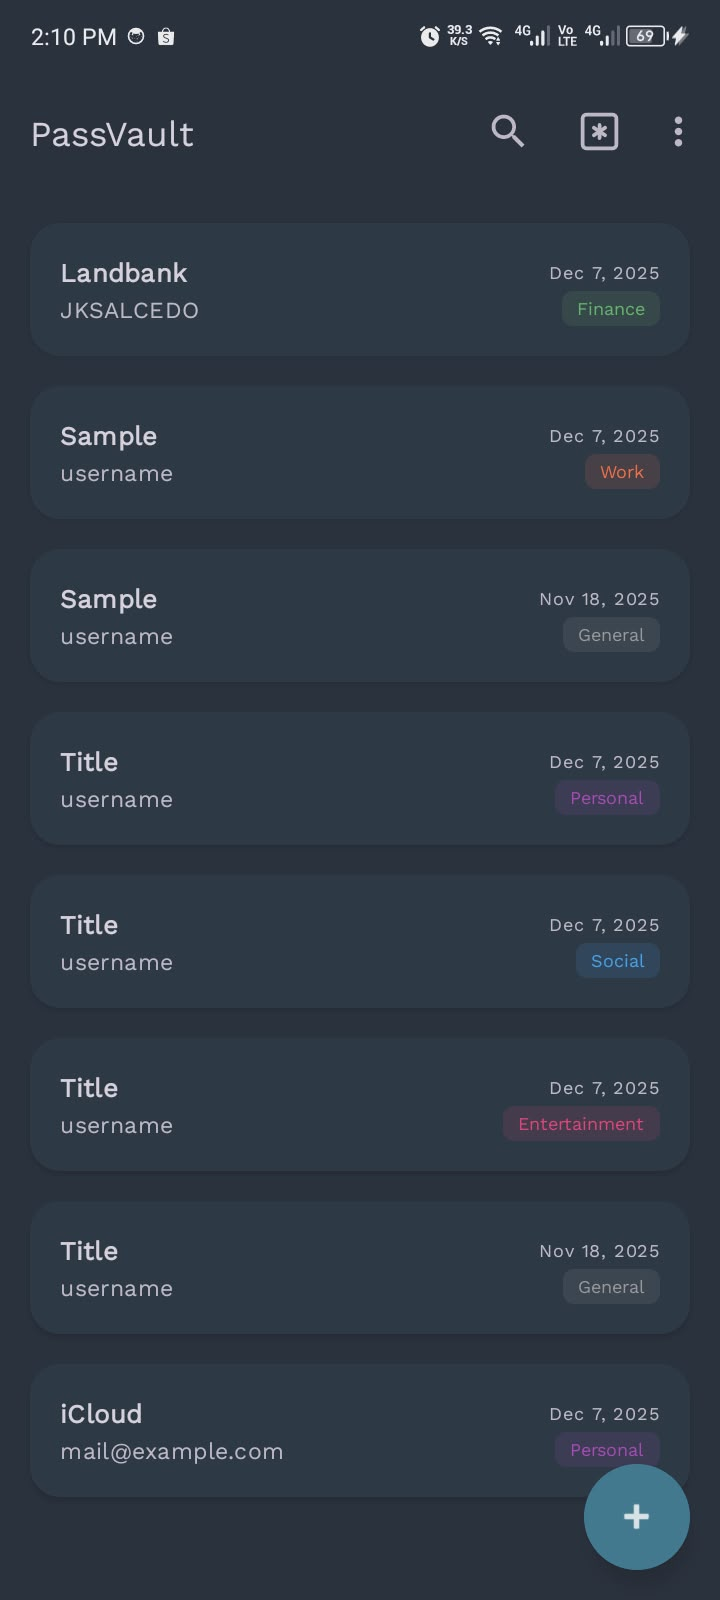
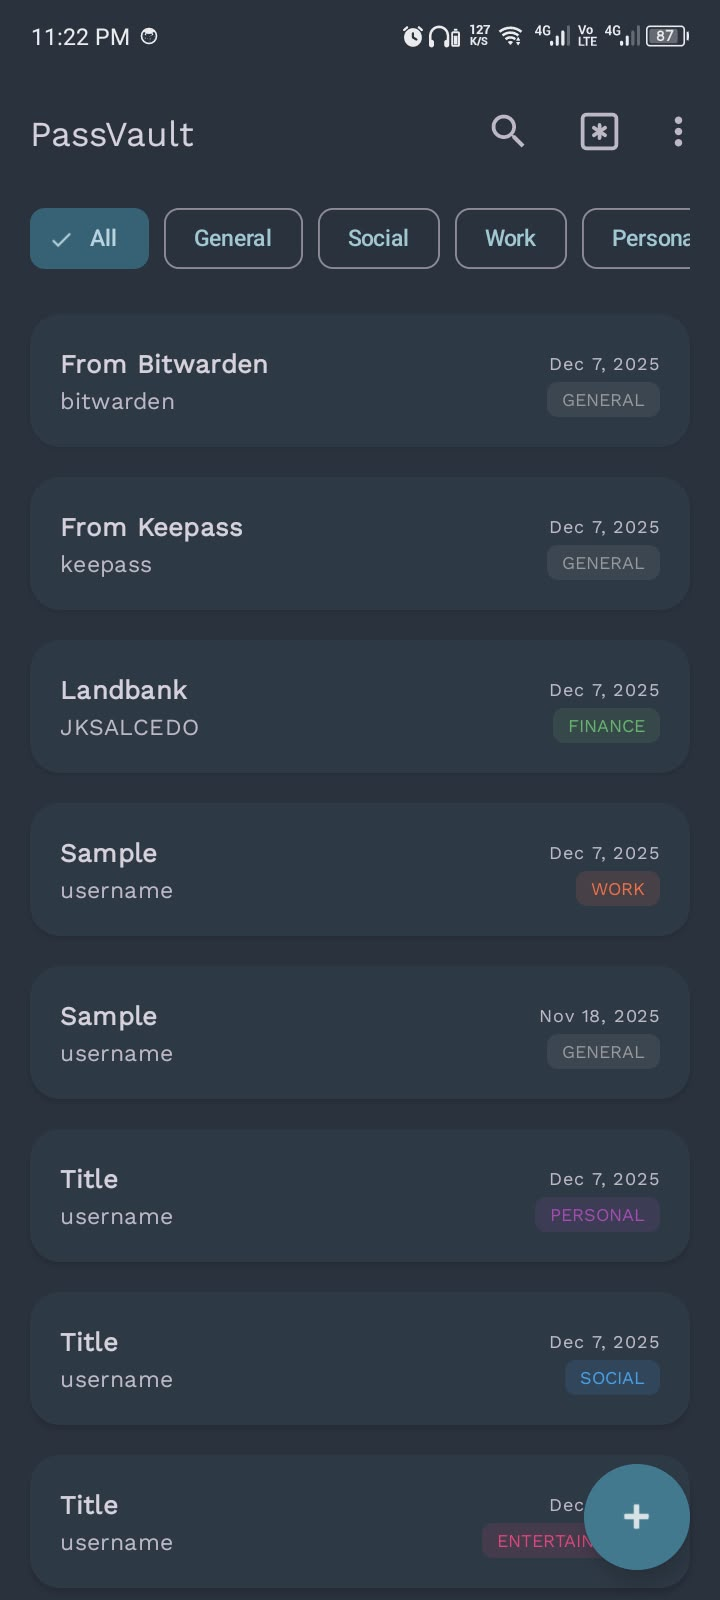
style: Update Store screenshot
This commit updates the second screenshot for the app's Google Store listing in the en-US locale.

diff --git a/README.md b/README.md
@@ -31,7 +31,7 @@ Kotlin.</h4>
     <img src="https://img.shields.io/badge/Get_it_on-F--Droid-green?style=for-the-badge&logo=f-droid&logoColor=white" alt="Get it on F-Droid" />
   </a>
 
-  [![IzzyOnDroid Shield](https://img.shields.io/endpoint?url=https://apt.izzysoft.de/fdroid/api/v1/shield/com.jksalcedo.passvault&label=IzzyOnDroid&style=for-the-badge)](https://apt.izzysoft.de/packages/com.jksalcedo.passvault)
+[![IzzyOnDroid Shield](https://img.shields.io/endpoint?url=https://apt.izzysoft.de/fdroid/api/v1/shield/com.jksalcedo.passvault&label=IzzyOnDroid&style=for-the-badge)](https://apt.izzysoft.de/packages/com.jksalcedo.passvault)
 </div>
 
 
@@ -63,12 +63,12 @@ system. The application does not require internet permissions. User data never l
 - [X] Encrypted Import/Export (for backups and transfer)
 - [X] Encrypted Automatic Backups
 - [X] Import from KeePass (using [kotpass](https://github.com/keemobile/kotpass))/Bitwarden
+- [X] Categories/Labels
 
 ## Planned Features
 
 - [ ] Secure Notes (for storing non-password secrets)
 - [ ] Desktop Version
-- [ ] Categories/Labels
 - [ ] QR Code Password Sharing
 - [ ] Password strength scoring
 - [ ] Custom field templates
